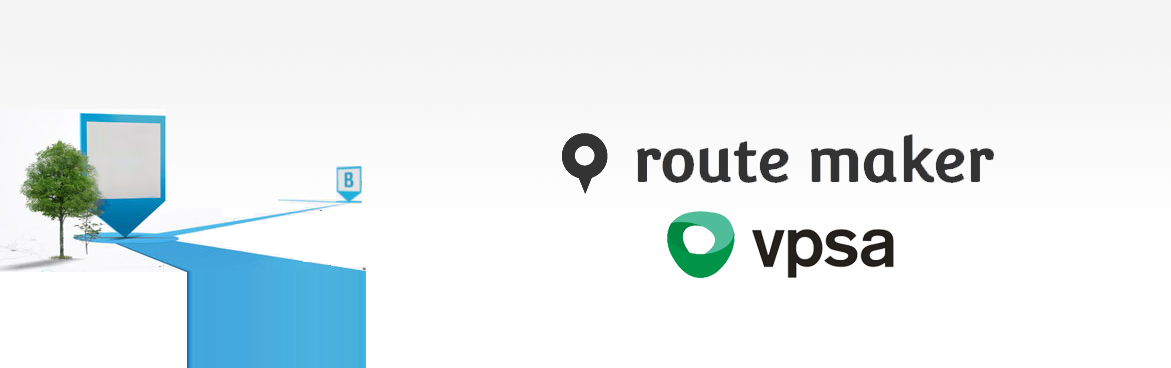
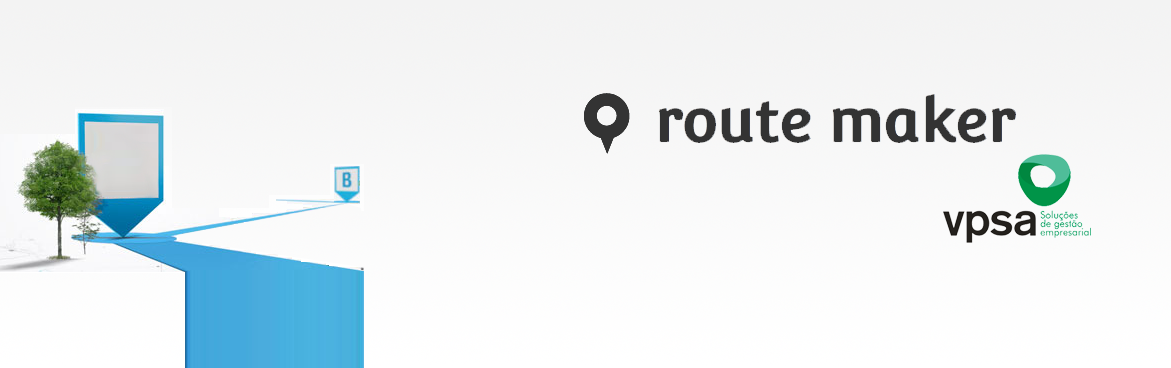
Ajuste lista e filtro admin, mediaboxes novos

diff --git a/routemaker/templates/index.html b/routemaker/templates/index.html
@@ -8,23 +8,17 @@
 {% endblock %}
 
 {% block content %}
-<!-- Main hero unit for a primary marketing message or call to action -->
-<div class="hero-unit logo-title">
-    <h1>route maker</h1>
-</div>
 
 <!-- caroussel -->
 <div class="slider-wrapper theme-default">
   <div id="slider" class="nivoSlider">
     <img src="{{ STATIC_URL }}mediabox/media01.png" data-thumb="{{ STATIC_URL }}mediabox/media01.png" alt="" title="#slide01-caption" />
-    <img src="{{ STATIC_URL }}mediabox/media0.jpg" data-thumb="{{ STATIC_URL }}mediabox/media0.jpg" alt="" title="#slide02-caption" />
+    <img src="{{ STATIC_URL }}mediabox/media02.png" data-thumb="{{ STATIC_URL }}mediabox/media02.png" alt="" title="#slide02-caption" />
     <img src="{{ STATIC_URL }}mediabox/media03.png" data-thumb="{{ STATIC_URL }}mediabox/media03.png" alt="" title="#slide03-caption" />
-    <img src="{{ STATIC_URL }}mediabox/media0.jpg" data-thumb="{{ STATIC_URL }}mediabox/media0.jpg" alt="" data-transition="slideInLeft" />
-    <img src="{{ STATIC_URL }}mediabox/media1.jpg" data-thumb="{{ STATIC_URL }}mediabox/media1.jpg" alt="" title="#htmlcaption" />
+    <img src="{{ STATIC_URL }}mediabox/media04.png" data-thumb="{{ STATIC_URL }}mediabox/media04.png" alt="" title="#slide04-caption" data-transition="slideInLeft" />
   </div>
   <div id="slide01-caption" class="nivo-html-caption">
-    <h3>Sistema de criação de rotas, integrado ao</h3>
-    <h3>VPSA</h3>
+    <h3>Sistema de criação de rotas, integrado ao VPSA</h3>
   </div>
   <div id="slide02-caption" class="nivo-html-caption">
     <h3>Simples, intuitivo e amigável</h3>
@@ -32,8 +26,8 @@
   <div id="slide03-caption" class="nivo-html-caption">
     <h3>Acessível de diversos dispositivos e lugares.</h3>
   </div>
-  <div id="htmlcaption" class="nivo-html-caption">
-    <strong>This</strong> is an example of a <em>HTML</em> caption with <a href="#">a link</a>. 
+  <div id="slide04-caption" class="nivo-html-caption">
+    <h3>Realize seu cadastro agora mesmo. <a href="{% url routemaker.views.signup %}" class="btn btn-warning">Inscreva-se agora &raquo;</a></h3>
   </div>
 </div>
 
@@ -106,12 +100,12 @@
     <div class="span4">
       <h2>Inscreva-se</h2>
        <p>Donec id elit non mi porta gravida at eget metus. Fusce dapibus, tellus ac cursus commodo, tortor mauris condimentum nibh, ut fermentum massa justo sit amet risus. Etiam porta sem malesuada magna mollis euismod. Donec sed odio dui. </p>
-      <p><a class="btn" href="{% url routemaker.views.signup %}">Cadastro &raquo;</a></p>
+      <p><a class="btn btn-large" href="{% url routemaker.views.signup %}">Cadastro &raquo;</a></p>
     </div>
     <div class="span4">
       <h2>Entre</h2>
       <p>Donec id elit non mi porta gravida at eget metus. Fusce dapibus, tellus ac cursus commodo, tortor mauris condimentum nibh, ut fermentum massa justo sit amet risus. Etiam porta sem malesuada magna mollis euismod. Donec sed odio dui. </p>
-      <p><a class="btn" href="{% url routemaker.views.log_in %}">Login &raquo;</a></p>
+      <p><a class="btn btn-large" href="{% url routemaker.views.log_in %}">Login &raquo;</a></p>
     </div>
 </div>
 {% endblock %}

diff --git a/routemaker/templates/base-fluid.html b/routemaker/templates/base-fluid.html
@@ -5,7 +5,7 @@
     <title>{% block title %}VPSA - Route Maker{% endblock %}</title>
     <meta name="viewport" content="width=device-width, initial-scale=1.0">
     <meta name="keywords" content="Route Maker, VPSA, VPSA API" />
-    <meta name="description" content="VPSA - Route Maker">
+    <meta name="description" content="Sistema de criação de rotas on-line, integrado ao VPSA.">
     <meta name="author" content="VPSA - Rafael K. Une">
 
     <!-- styles -->

diff --git a/routemaker/templates/base.html b/routemaker/templates/base.html
@@ -5,7 +5,7 @@
     <title>{% block title %}VPSA - Route Maker{% endblock %}</title>
     <meta name="viewport" content="width=device-width, initial-scale=1.0">
     <meta name="keywords" content="Route Maker, VPSA, VPSA API" />
-    <meta name="description" content="VPSA - Route Maker">
+    <meta name="description" content="Sistema de criação de rotas on-line, integrado ao VPSA.">
     <meta name="author" content="VPSA - Rafael K. Une">
 
     <!-- styles -->

diff --git a/routemaker/admin.py b/routemaker/admin.py
@@ -1,7 +1,16 @@
+# -*- coding: latin-1 -*-
+
 from django.contrib import admin
 from django.contrib.auth.models import User
 from models import UserProfile
 
 admin.site.unregister(User)
-admin.site.register(UserProfile)
+
+class UserProfileAdmin(admin.ModelAdmin):
+	fields = ('user', 'database')
+	search_fields = ['user', 'database']
+	list_display = ('user', 'database')
+	list_filter = ('user', 'database')
+
+admin.site.register(UserProfile, UserProfileAdmin)
 admin.site.register(User)
